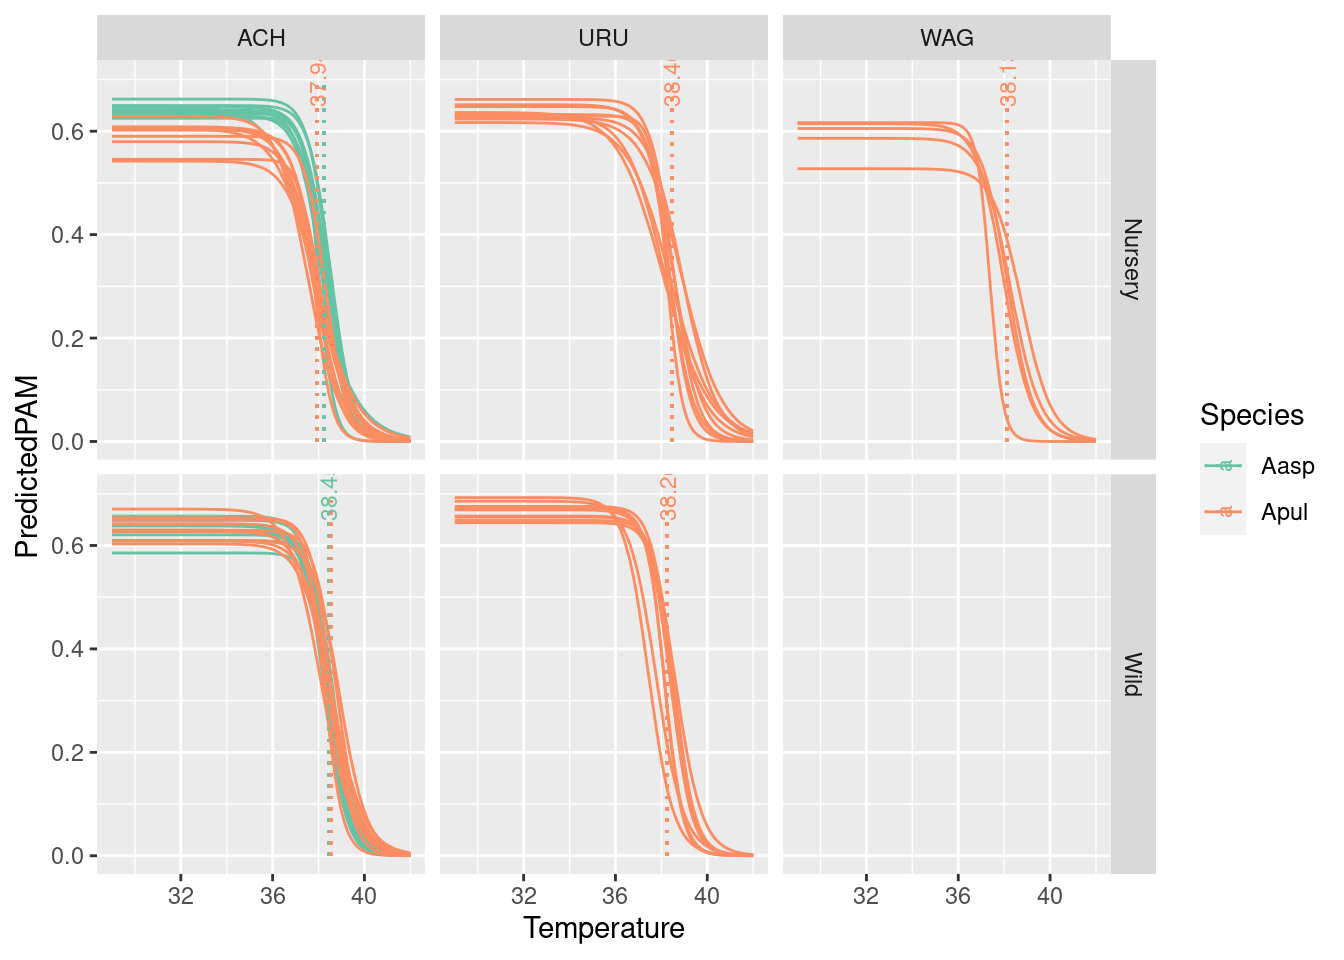
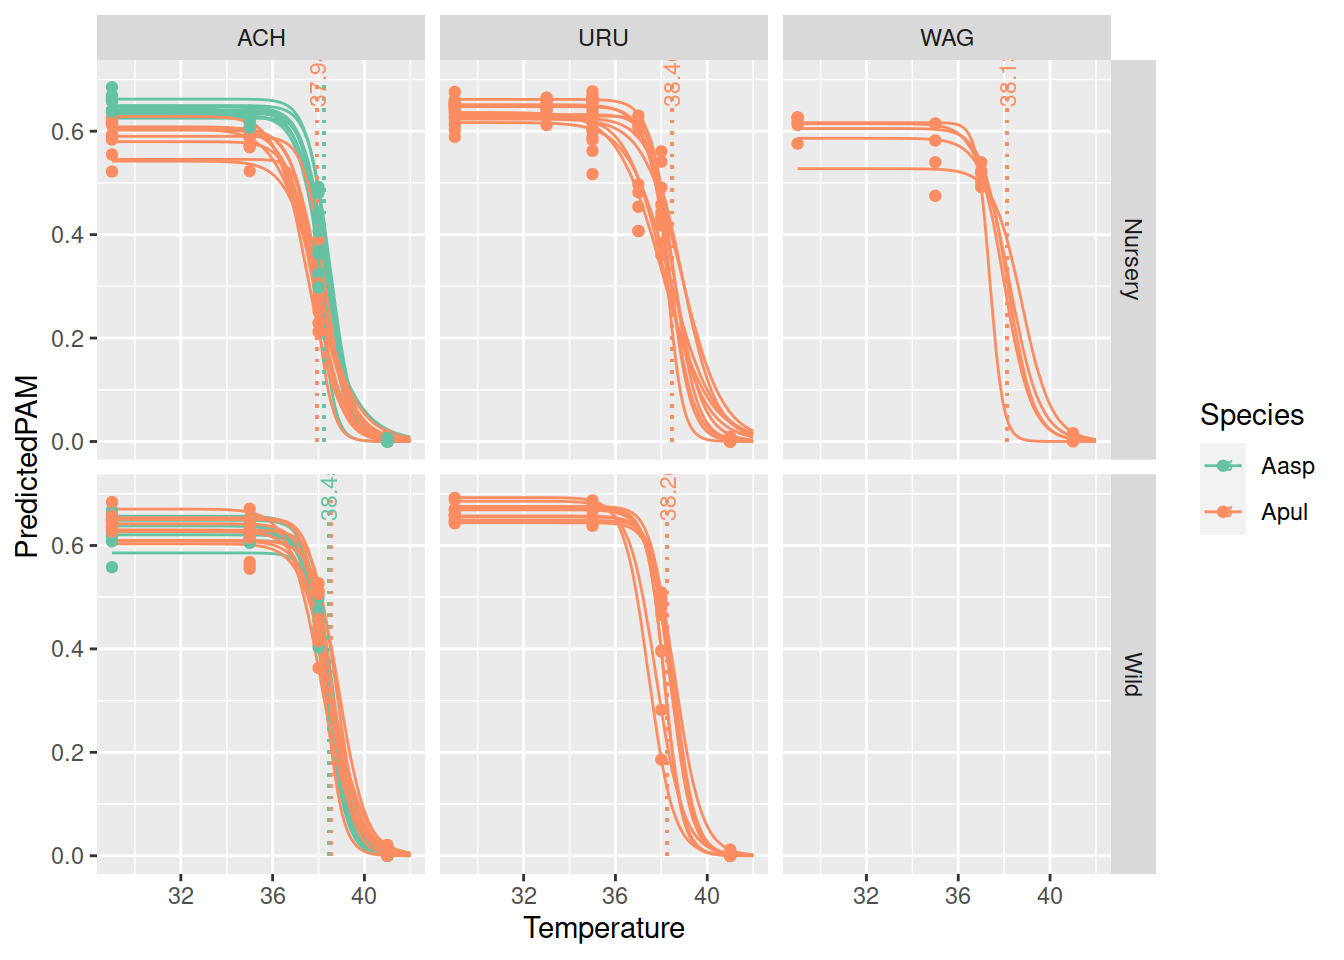
updated plots

diff --git a/Demo.html b/Demo.html
@@ -8,7 +8,7 @@
 
 <meta name="author" content="Yulia Iakovleva">
 
-<title>CBASS Demo</title>
+<title>CBASSED50 Demo</title>
 <style>
 code{white-space: pre-wrap;}
 span.smallcaps{font-variant: small-caps;}
@@ -80,7 +80,7 @@ pre > code.sourceCode > span > a:first-child::before { text-decoration: underlin
 
 <header id="title-block-header" class="quarto-title-block default">
 <div class="quarto-title">
-<h1 class="title">CBASS Demo</h1>
+<h1 class="title">CBASSED50 Demo</h1>
 </div>
 
 
@@ -101,18 +101,18 @@ pre > code.sourceCode > span > a:first-child::before { text-decoration: underlin
 
 </header>
 
-<section id="about-cbass" class="level2">
-<h2 class="anchored" data-anchor-id="about-cbass">About CBASS</h2>
-<p>CBASS allows you to process CBASS data. To learn more about CBASS see <a href="https://onlinelibrary.wiley.com/doi/10.1111/gcb.15148" class="uri">https://onlinelibrary.wiley.com/doi/10.1111/gcb.15148</a>.</p>
+<section id="about-cbassed50" class="level2">
+<h2 class="anchored" data-anchor-id="about-cbassed50">About CBASSED50</h2>
+<p>CBASSED50 allows you to process CBASS data. To learn more about CBASSED50 see <a href="https://onlinelibrary.wiley.com/doi/10.1111/gcb.15148" class="uri">https://onlinelibrary.wiley.com/doi/10.1111/gcb.15148</a>.</p>
 </section>
-<section id="install-cbass" class="level2">
-<h2 class="anchored" data-anchor-id="install-cbass">Install CBASS</h2>
+<section id="install-cbassed50" class="level2">
+<h2 class="anchored" data-anchor-id="install-cbassed50">Install CBASSED50</h2>
 <div class="cell">
 <div class="sourceCode cell-code" id="cb1"><pre class="sourceCode r code-with-copy"><code class="sourceCode r"><span id="cb1-1"><a href="#cb1-1" aria-hidden="true" tabindex="-1"></a><span class="cf">if</span>(<span class="sc">!</span><span class="fu">require</span>(devtools)){</span>
 <span id="cb1-2"><a href="#cb1-2" aria-hidden="true" tabindex="-1"></a>    <span class="fu">install.packages</span>(<span class="st">"devtools"</span>)</span>
 <span id="cb1-3"><a href="#cb1-3" aria-hidden="true" tabindex="-1"></a>}</span>
 <span id="cb1-4"><a href="#cb1-4" aria-hidden="true" tabindex="-1"></a></span>
-<span id="cb1-5"><a href="#cb1-5" aria-hidden="true" tabindex="-1"></a>devtools<span class="sc">::</span><span class="fu">install_github</span>(<span class="st">"greenjune-ship-it/CBASS"</span>, <span class="at">quiet =</span> <span class="cn">TRUE</span>, <span class="at">force =</span> <span class="cn">TRUE</span>)</span></code><button title="Copy to Clipboard" class="code-copy-button"><i class="bi"></i></button></pre></div>
+<span id="cb1-5"><a href="#cb1-5" aria-hidden="true" tabindex="-1"></a>devtools<span class="sc">::</span><span class="fu">install_github</span>(<span class="st">"greenjune-ship-it/CBASSED50"</span>, <span class="at">quiet =</span> <span class="cn">TRUE</span>, <span class="at">force =</span> <span class="cn">TRUE</span>)</span></code><button title="Copy to Clipboard" class="code-copy-button"><i class="bi"></i></button></pre></div>
 </div>
 </section>
 <section id="load-packages" class="level2">
@@ -121,7 +121,7 @@ pre > code.sourceCode > span > a:first-child::before { text-decoration: underlin
 <div class="sourceCode cell-code" id="cb2"><pre class="sourceCode r code-with-copy"><code class="sourceCode r"><span id="cb2-1"><a href="#cb2-1" aria-hidden="true" tabindex="-1"></a><span class="fu">library</span>(dplyr)</span>
 <span id="cb2-2"><a href="#cb2-2" aria-hidden="true" tabindex="-1"></a><span class="fu">library</span>(ggplot2)</span>
 <span id="cb2-3"><a href="#cb2-3" aria-hidden="true" tabindex="-1"></a><span class="fu">library</span>(RColorBrewer)</span>
-<span id="cb2-4"><a href="#cb2-4" aria-hidden="true" tabindex="-1"></a><span class="fu">library</span>(CBASS)</span></code><button title="Copy to Clipboard" class="code-copy-button"><i class="bi"></i></button></pre></div>
+<span id="cb2-4"><a href="#cb2-4" aria-hidden="true" tabindex="-1"></a><span class="fu">library</span>(CBASSED50)</span></code><button title="Copy to Clipboard" class="code-copy-button"><i class="bi"></i></button></pre></div>
 </div>
 </section>
 <section id="preprocess-and-validate-data" class="level2">
@@ -131,32 +131,39 @@ pre > code.sourceCode > span > a:first-child::before { text-decoration: underlin
 <div class="sourceCode cell-code" id="cb3"><pre class="sourceCode r code-with-copy"><code class="sourceCode r"><span id="cb3-1"><a href="#cb3-1" aria-hidden="true" tabindex="-1"></a><span class="fu">data</span>(<span class="st">"cbass_dataset"</span>)</span>
 <span id="cb3-2"><a href="#cb3-2" aria-hidden="true" tabindex="-1"></a><span class="fu">head</span>(cbass_dataset)</span></code><button title="Copy to Clipboard" class="code-copy-button"><i class="bi"></i></button></pre></div>
 <div class="cell-output cell-output-stdout">
-<pre><code>        Date Country Site Condition Species Genotype Temperature   PAM
-1 2022-11-11    GUAM  URU   Nursery    Apul        1          38 0.561
-2 2022-11-11    GUAM  URU   Nursery    Apul        2          38 0.491
-3 2022-11-11    GUAM  URU   Nursery    Apul        3          38  0.43
-4 2022-11-11    GUAM  URU   Nursery    Apul        4          38 0.458
-5 2022-11-11    GUAM  URU   Nursery    Apul        5          38  0.36
-6 2022-11-11    GUAM  URU   Nursery    Apul        6          38 0.418</code></pre>
+<pre><code>        Date Country Site Condition Species Genotype Temperature Timepoint
+1 2022-11-11    GUAM  URU   Nursery    Apul        1          38       420
+2 2022-11-11    GUAM  URU   Nursery    Apul        2          38       420
+3 2022-11-11    GUAM  URU   Nursery    Apul        3          38       420
+4 2022-11-11    GUAM  URU   Nursery    Apul        4          38       420
+5 2022-11-11    GUAM  URU   Nursery    Apul        5          38       420
+6 2022-11-11    GUAM  URU   Nursery    Apul        6          38       420
+    PAM
+1 0.561
+2 0.491
+3  0.43
+4 0.458
+5  0.36
+6 0.418</code></pre>
 </div>
 </div>
 <p>Make your data tidy and validate:</p>
 <div class="cell">
 <div class="sourceCode cell-code" id="cb5"><pre class="sourceCode r code-with-copy"><code class="sourceCode r"><span id="cb5-1"><a href="#cb5-1" aria-hidden="true" tabindex="-1"></a>cbass_dataset <span class="ot">&lt;-</span> <span class="fu">preprocess_dataset</span>(cbass_dataset)</span></code><button title="Copy to Clipboard" class="code-copy-button"><i class="bi"></i></button></pre></div>
 <div class="cell-output cell-output-stdout">
-<pre><code>2023-08-17 16:59:56.840805 [INFO] `Site` column was converted to factor.
-2023-08-17 16:59:56.841129 [INFO] `Condition` column was converted to factor.
-2023-08-17 16:59:56.841341 [INFO] `Species` column was converted to factor.
-2023-08-17 16:59:56.841527 [INFO] `Genotype` column was converted to factor.
-2023-08-17 16:59:56.841671 [INFO] `PAM` column was converted to numeric.
-2023-08-17 16:59:56.841807 [INFO] Removing rows with missing data...</code></pre>
+<pre><code>2023-08-29 13:22:59.425946 [INFO] `Site` column was converted to factor.
+2023-08-29 13:22:59.426258 [INFO] `Condition` column was converted to factor.
+2023-08-29 13:22:59.426449 [INFO] `Species` column was converted to factor.
+2023-08-29 13:22:59.426625 [INFO] `Genotype` column was converted to factor.
+2023-08-29 13:22:59.426763 [INFO] `PAM` column was converted to numeric.
+2023-08-29 13:22:59.426897 [INFO] Removing rows with missing data...</code></pre>
 </div>
 <div class="sourceCode cell-code" id="cb7"><pre class="sourceCode r code-with-copy"><code class="sourceCode r"><span id="cb7-1"><a href="#cb7-1" aria-hidden="true" tabindex="-1"></a><span class="fu">validate_cbass_dataset</span>(cbass_dataset)</span></code><button title="Copy to Clipboard" class="code-copy-button"><i class="bi"></i></button></pre></div>
 <div class="cell-output cell-output-stdout">
-<pre><code>2023-08-17 16:59:56.843166 [INFO] Checking if the dataset has all mandatory columns...
-2023-08-17 16:59:56.843375 [INFO] Checking if the dataset has enough temperature values...
-2023-08-17 16:59:56.843523 [INFO] Your dataset passes all checks!
-2023-08-17 16:59:56.84362 [INFO] The dataset contains:
+<pre><code>2023-08-29 13:22:59.428308 [INFO] Checking if the dataset has all mandatory columns...
+2023-08-29 13:22:59.428508 [INFO] Checking if the dataset has enough temperature values...
+2023-08-29 13:22:59.428658 [INFO] Your dataset passes all checks!
+2023-08-29 13:22:59.428754 [INFO] The dataset contains:
 * 3 unique Sites
 * 2 unique Conditions
 * 2 unique Species
@@ -172,7 +179,7 @@ pre > code.sourceCode > span > a:first-child::before { text-decoration: underlin
 <p>First you need to decide which grouping property you want to use. For example, I want to merge <code>Site</code> , <code>Condition</code>, <code>Species</code>, <code>Genotype</code> as one merged grouping property.</p>
 <p>Create models:</p>
 <div class="cell">
-<div class="sourceCode cell-code" id="cb10"><pre class="sourceCode r code-with-copy"><code class="sourceCode r"><span id="cb10-1"><a href="#cb10-1" aria-hidden="true" tabindex="-1"></a>grouping_properties <span class="ot">&lt;-</span> <span class="fu">c</span>(<span class="st">"Site"</span>, <span class="st">"Condition"</span>, <span class="st">"Species"</span>, <span class="st">"Genotype"</span>)</span>
+<div class="sourceCode cell-code" id="cb10"><pre class="sourceCode r code-with-copy"><code class="sourceCode r"><span id="cb10-1"><a href="#cb10-1" aria-hidden="true" tabindex="-1"></a>grouping_properties <span class="ot">&lt;-</span> <span class="fu">c</span>(<span class="st">"Site"</span>, <span class="st">"Condition"</span>, <span class="st">"Species"</span>, <span class="st">"Genotype"</span>, <span class="st">"Timepoint"</span>)</span>
 <span id="cb10-2"><a href="#cb10-2" aria-hidden="true" tabindex="-1"></a>drm_formula <span class="ot">&lt;-</span> <span class="st">"PAM ~ Temperature"</span></span>
 <span id="cb10-3"><a href="#cb10-3" aria-hidden="true" tabindex="-1"></a>models <span class="ot">&lt;-</span> <span class="fu">fit_drms</span>(cbass_dataset, grouping_properties, drm_formula)</span></code><button title="Copy to Clipboard" class="code-copy-button"><i class="bi"></i></button></pre></div>
 </div>
@@ -188,13 +195,13 @@ pre > code.sourceCode > span > a:first-child::before { text-decoration: underlin
 <span id="cb11-8"><a href="#cb11-8" aria-hidden="true" tabindex="-1"></a></span>
 <span id="cb11-9"><a href="#cb11-9" aria-hidden="true" tabindex="-1"></a><span class="fu">head</span>(ed50_df)</span></code><button title="Copy to Clipboard" class="code-copy-button"><i class="bi"></i></button></pre></div>
 <div class="cell-output cell-output-stdout">
-<pre><code>      ED50   GroupingProperty Site Condition Species Genotype
-1 38.93450 URU_Nursery_Apul_1  URU   Nursery    Apul        1
-2 38.52579 URU_Nursery_Apul_2  URU   Nursery    Apul        2
-3 38.25566 URU_Nursery_Apul_3  URU   Nursery    Apul        3
-4 38.52327 URU_Nursery_Apul_4  URU   Nursery    Apul        4
-5 38.18692 URU_Nursery_Apul_5  URU   Nursery    Apul        5
-6 38.42409 URU_Nursery_Apul_6  URU   Nursery    Apul        6</code></pre>
+<pre><code>      ED50       GroupingProperty Site Condition Species Genotype Timepoint
+1 38.93450 URU_Nursery_Apul_1_420  URU   Nursery    Apul        1       420
+2 38.52579 URU_Nursery_Apul_2_420  URU   Nursery    Apul        2       420
+3 38.25566 URU_Nursery_Apul_3_420  URU   Nursery    Apul        3       420
+4 38.52327 URU_Nursery_Apul_4_420  URU   Nursery    Apul        4       420
+5 38.18692 URU_Nursery_Apul_5_420  URU   Nursery    Apul        5       420
+6 38.42409 URU_Nursery_Apul_6_420  URU   Nursery    Apul        6       420</code></pre>
 </div>
 </div>
 <p>ED50 Boxplot.</p>
@@ -263,7 +270,12 @@ the `.groups` argument.</code></pre>
 <span id="cb19-15"><a href="#cb19-15" aria-hidden="true" tabindex="-1"></a>                        <span class="at">color =</span> Species),</span>
 <span id="cb19-16"><a href="#cb19-16" aria-hidden="true" tabindex="-1"></a>            <span class="at">size =</span> <span class="dv">3</span>, <span class="at">angle =</span> <span class="dv">90</span>, <span class="at">check_overlap =</span> T) <span class="sc">+</span></span>
 <span id="cb19-17"><a href="#cb19-17" aria-hidden="true" tabindex="-1"></a>  <span class="fu">facet_grid</span>(Condition <span class="sc">~</span> Site) <span class="sc">+</span></span>
-<span id="cb19-18"><a href="#cb19-18" aria-hidden="true" tabindex="-1"></a>  <span class="fu">scale_color_brewer</span>(<span class="at">palette =</span> <span class="st">"Set2"</span>) <span class="co"># colorblind-friendly palette</span></span></code><button title="Copy to Clipboard" class="code-copy-button"><i class="bi"></i></button></pre></div>
+<span id="cb19-18"><a href="#cb19-18" aria-hidden="true" tabindex="-1"></a>  <span class="co"># to add the real PAM and compare with predicted values</span></span>
+<span id="cb19-19"><a href="#cb19-19" aria-hidden="true" tabindex="-1"></a>  <span class="fu">geom_point</span>(<span class="at">data =</span> cbass_dataset,</span>
+<span id="cb19-20"><a href="#cb19-20" aria-hidden="true" tabindex="-1"></a>             <span class="fu">aes</span>(<span class="at">x =</span> Temperature,</span>
+<span id="cb19-21"><a href="#cb19-21" aria-hidden="true" tabindex="-1"></a>                 <span class="at">y =</span> PAM,</span>
+<span id="cb19-22"><a href="#cb19-22" aria-hidden="true" tabindex="-1"></a>                 <span class="at">color =</span> Species)) <span class="sc">+</span></span>
+<span id="cb19-23"><a href="#cb19-23" aria-hidden="true" tabindex="-1"></a>  <span class="fu">scale_color_brewer</span>(<span class="at">palette =</span> <span class="st">"Set2"</span>) <span class="co"># colorblind-friendly palette</span></span></code><button title="Copy to Clipboard" class="code-copy-button"><i class="bi"></i></button></pre></div>
 <div class="cell-output-display">
 <p><img src="Demo_files/figure-html/plot-temperature-responce-curve-1.png" class="img-fluid" width="672"></p>
 </div>

diff --git a/README.md b/README.md
@@ -1,3 +1,16 @@
-# CBASS
+# CBASSED50
 
-The CBASS R package to process CBASS data.
+The CBASSED50 R package to process CBASS data.
+
+# FAQ
+
+### Error installing package 'mvtnorm'
+
+In Ubuntu you may face the issue with 'mvtnorm' dependency installation.
+
+To solve it, install the following libraries:
+
+```         
+sudo apt-get install gfortran
+sudo apt-get install liblapack-dev libblas-dev
+```
